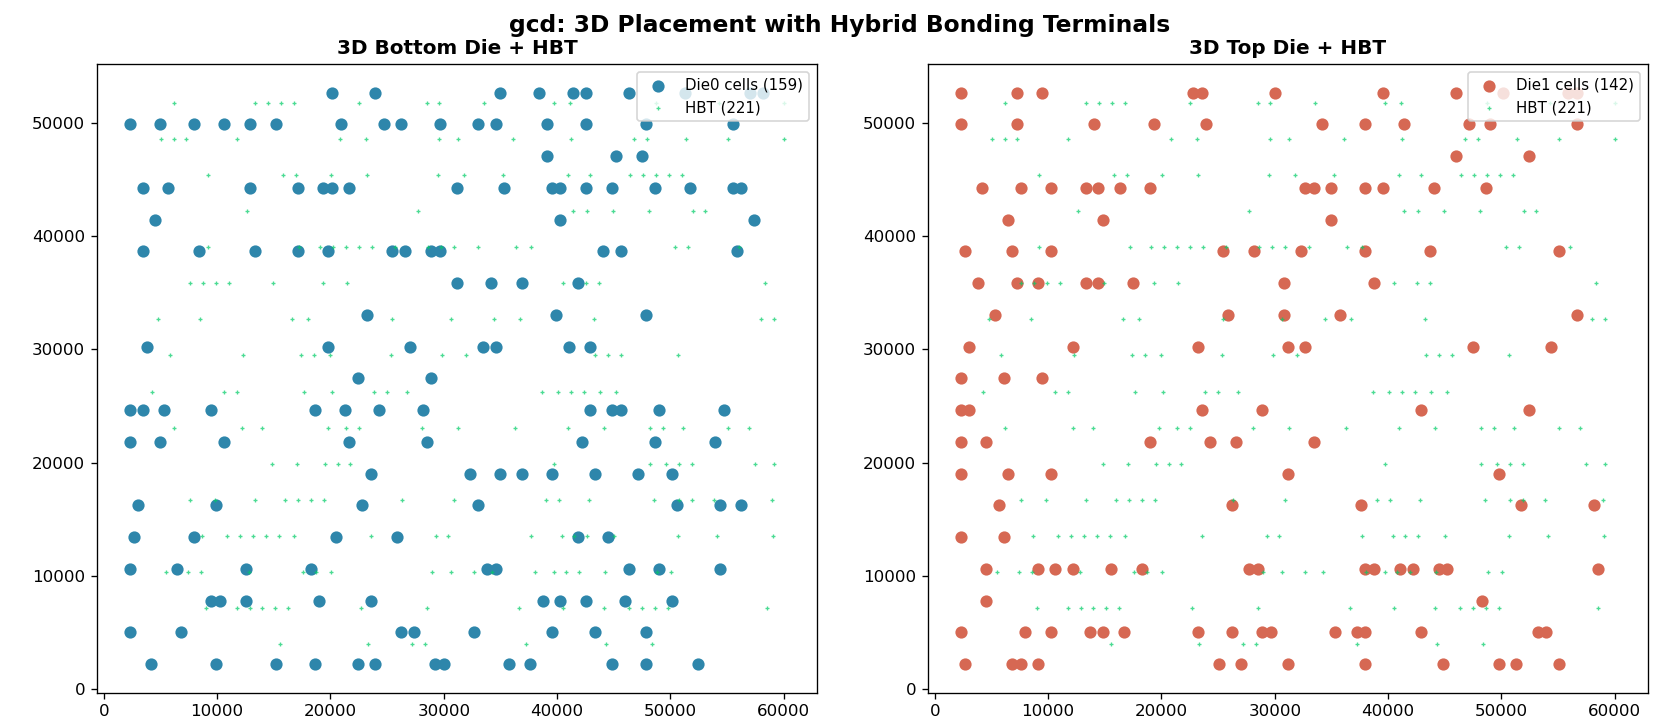
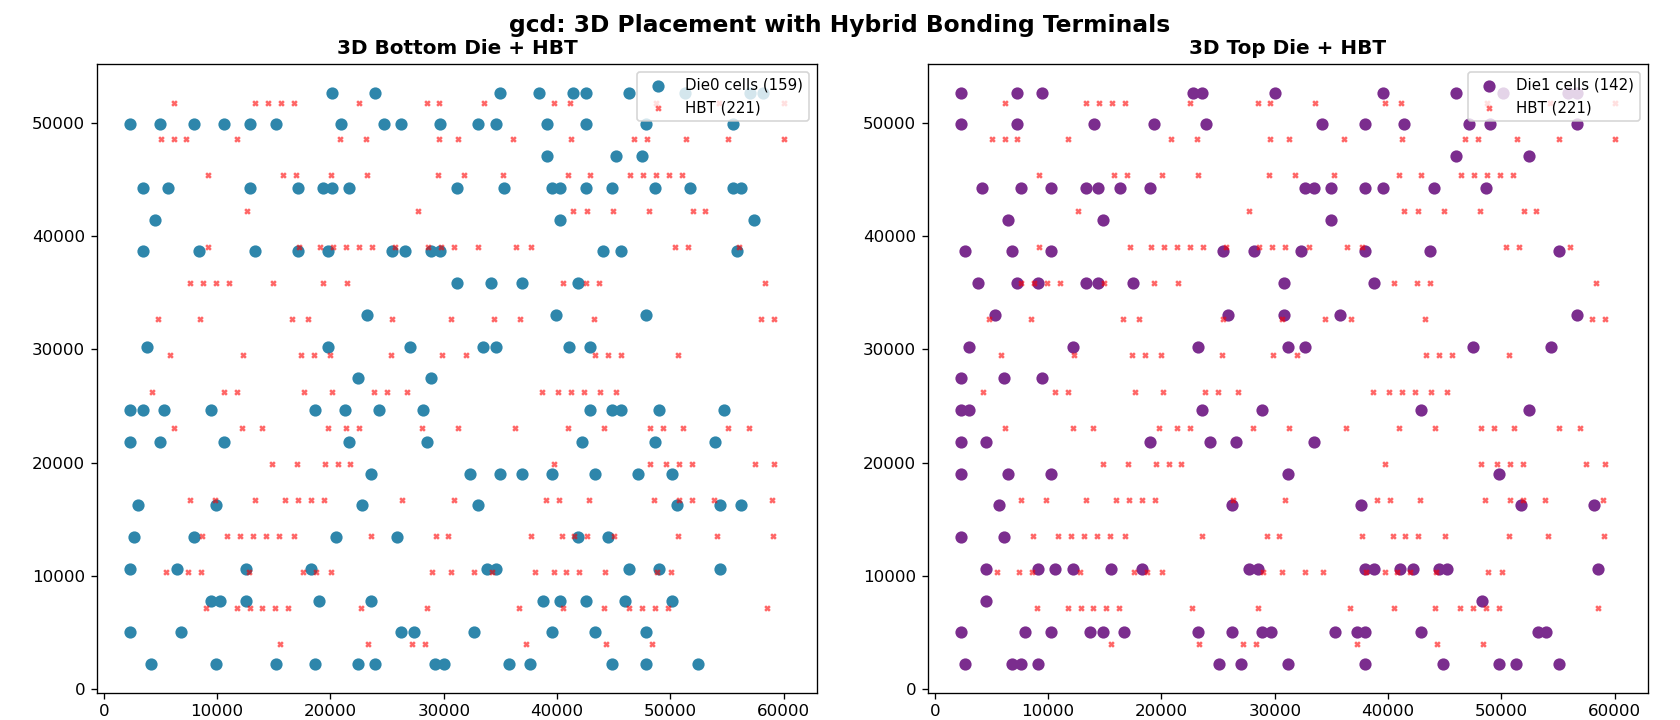
HBT保持红x, Top Die改紫色

diff --git a/scripts/plot_placement.py b/scripts/plot_placement.py
@@ -54,7 +54,7 @@ plt.tight_layout(); plt.savefig('figures/gcd_3d_bottom.png', dpi=150); plt.close
 fig, ax = plt.subplots(figsize=(8, 7))
 if top:
     xs, ys = zip(*top)
-    ax.scatter(xs, ys, color='#D66853', s=250, alpha=0.8)
+    ax.scatter(xs, ys, color='#7B2D8E', s=250, alpha=0.8)
     margin = 4000
     ax.set_xlim(min(xs)-margin, max(xs)+margin)
     ax.set_ylim(min(ys)-margin, max(ys)+margin)
@@ -86,7 +86,7 @@ ax.set_aspect('equal')
 ax = axes[2]
 if top:
     xs, ys = zip(*top)
-    ax.scatter(xs, ys, color='#D66853', s=200, alpha=0.8)
+    ax.scatter(xs, ys, color='#7B2D8E', s=200, alpha=0.8)
     m3 = 4000
     ax.set_xlim(min(xs)-m3, max(xs)+m3); ax.set_ylim(min(ys)-m3, max(ys)+m3)
 ax.set_title(f'3D Top  {len(top)} cells', fontsize=12, fontweight='bold')
